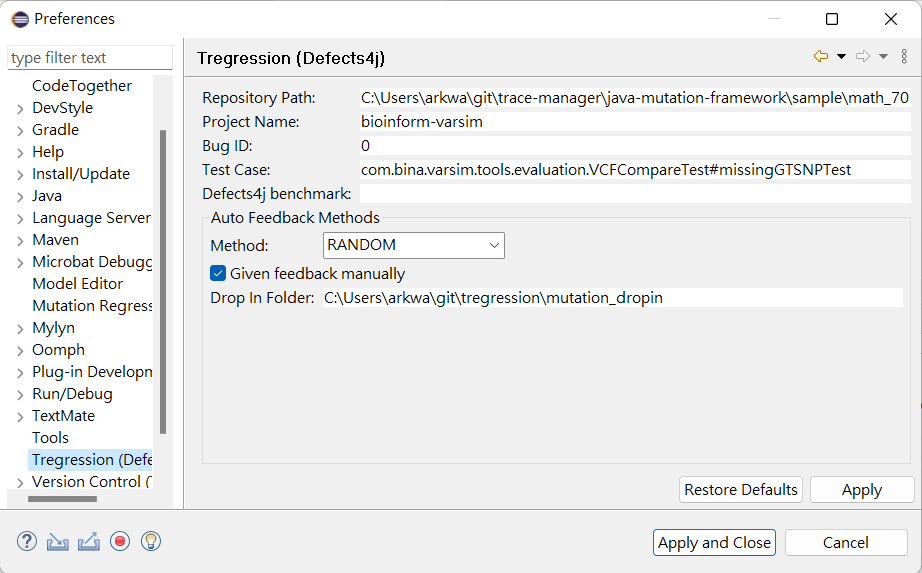
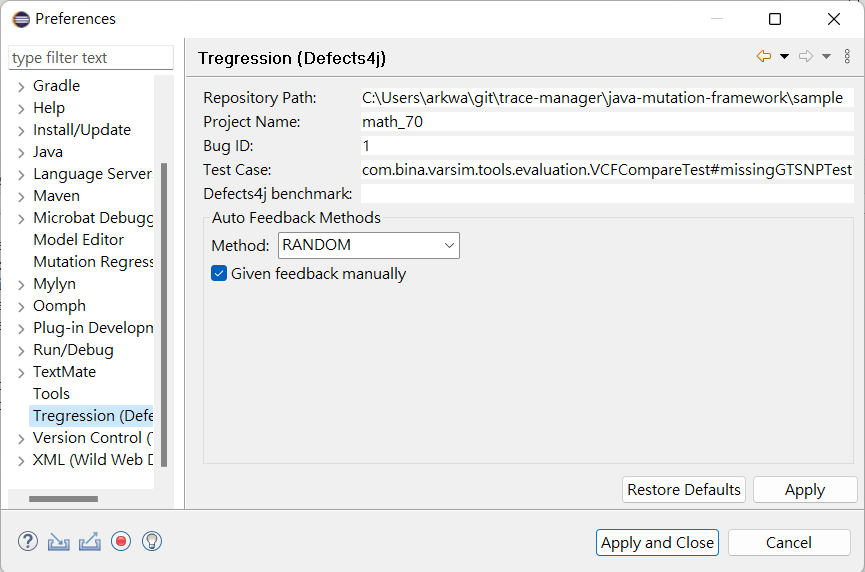
Update readme

diff --git a/README.md b/README.md
@@ -53,11 +53,9 @@ To perform the mutation functionality, please follow the steps:
    <img src="./images/Preference.png" width="400"/>
    </p> 
 
-   - **Repository Path:** It is the absolute path to the testing project. The recommanded testing project are installed within `java-mutation-framework/sample`. In this example, we are using `math_70` as our testing project: `C:\Users\user_name\git\java-mutation-framework\sample\math_70`
+   - **Repository Path:** It is the absolute path to the testing project. The recommanded testing project are installed within `java-mutation-framework/sample`. In this example, we are using `math_70` as our testing project: `C:\Users\user_name\git\java-mutation-framework\sample`
+   - **Project Name:** It is the name of the project. In this example, we are using `math_70`
    - **Bug ID:** It represent which test case that is being tested. For example, for `Bug ID = 0`, that mean the first test case is being tested. Make sure that the `Bug ID` does not exceed the number of test cases. In our example, we are testing the first test case so that the input is `0`.
-   - **Give feedback manually:** Check this box if you want to give the feedback manually, which is also the recommanded choice. 
-    
-      If the box is unchecked, then tregression will give the feedback by comparing the buggy trace and correct trace. However, since some of the variable are changed for running the baseline, it is possible that tregression may give wrong feedback.
 
    - **Drop In Folder:** It is the absolute path to the folder that store all the required `.jar` files for the mutation. You can find it in `tregression\mutation_dropin`. Please convert it to absolute path.
 
@@ -87,9 +85,19 @@ Tregression can now debug based on belief propagation technique. For more inform
 
 3. Run every cell in `BP_Server.ipynb`
 
-4. If you are testing belief propagation with mutation framework, after the mutation is done, Tregression will print out the automatically detected input and output variables. If the variable are correctly detected, please skip step 5.
+4. In the Tregression Preference, you may want to check the `Give feedback manually` box.
 
-5. Define the input and the output variables:
+   **Give feedback manually:** Check this box if you want to give the feedback manually, which is also the recommanded choice.
+    
+   If the box is unchecked, then tregression will give the feedback by comparing the buggy trace and correct trace. However, since some of the variable are changed for running the baseline, it is possible that tregression may give wrong feedback.
+
+      <p align="center">
+   <img src="./images/Preference.png" width="400"/>
+   </p> 
+
+5. If you are testing belief propagation with mutation framework, after the mutation is done, Tregression will print out the automatically detected input and output variables. If the variable are correctly detected, please skip step 5.
+
+6. Define the input and the output variables:
 
     - **Define Inputs Variables**
       1. Navigate to the node that define the input variables. Note that there may be multiple node that define input variables.
